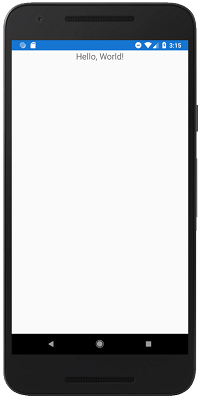
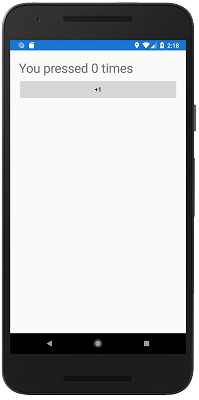
Update content to match upcoming blog post

diff --git a/mobile-blazor-bindings/contribute/roadmap.md b/mobile-blazor-bindings/contribute/roadmap.md
@@ -10,8 +10,10 @@ As an experimental project, there are several active areas of development and we
 
 ## Areas for possible improvement
 
-* Implement more wrappers for Xamarin.Forms elements. The most common Xamarin.Forms elements are available for use with Experimental Mobile Blazor Bindings, but there are more still to come. Follow [this issue](https://github.com/xamarin/Emblazon/issues/5) on GitHub to track the availability of components, or file a new issue with any feature suggestions.
+* [Add support for Hot Reload](https://github.com/xamarin/MobileBlazorBindings/issues/23)
+* Support for inline text and markup in issues [MobileBlazorBindings#26](https://github.com/xamarin/MobileBlazorBindings/issues/26) and [MobileBlazorBindings#27](https://github.com/xamarin/MobileBlazorBindings/issues/27)
+* Implement more wrappers for Xamarin.Forms elements. The most common Xamarin.Forms elements are available for use with Experimental Mobile Blazor Bindings, but there are more still to come. Follow [this issue](https://github.com/xamarin/MobileBlazorBindings/issues/5) on GitHub to track the availability of components, or file a new issue with any feature suggestions.
 * The current elements are mostly direct wrappers of Xamarin.Forms components. An open question is whether there should be components that are more abstract and/or match other patterns such as web-based patterns.
 * Better support for the `Shell` component.
 * Support URL-based navigation, both with the `Shell` component, and using Blazor's `@page` directive URL support.
-* Improved handling of modal dialogs and pop-ups. There is support for basic modal dialogs using the `ModalContainer` component, as seen in the [Todo app sample](https://github.com/xamarin/Emblazon/blob/master/samples/MobileBlazorBindingsTodoSample/MobileBlazorBindingsTodo/TodoEntry.razor#L12-L14).
+* Improved handling of modal dialogs and pop-ups. There is support for basic modal dialogs using the `ModalContainer` component, as seen in the [Todo app sample](https://github.com/xamarin/MobileBlazorBindings/blob/master/samples/MobileBlazorBindingsTodoSample/MobileBlazorBindingsTodo/TodoEntry.razor#L12-L14).

diff --git a/mobile-blazor-bindings/index.md b/mobile-blazor-bindings/index.md
@@ -4,22 +4,28 @@ title: 'Experimental Mobile Blazor Bindings'
 
 # Experimental Mobile Blazor Bindings
 
-Experimental Mobile Blazor Bindings is a new framework for building mobile apps using C# and .NET. It brings together familiar web programming patterns for use with native mobile controls to build native mobile apps for Android and iOS. Experimental Mobile Blazor Bindings uses Razor syntax to define UI components and behaviors of an application. The underlying UI components are based on Xamarin.Forms elements.
+Experimental Mobile Blazor Bindings enable developers to build native mobile apps using C# and .NET for iOS and Android using familiar web programming patterns. Experimental Mobile Blazor Bindings uses Razor syntax to define UI components and behaviors of an application. The underlying UI components are based on Xamarin.Forms native UI components. 
 
 Blazor runs on [.NET Standard 2.0](https://docs.microsoft.com/dotnet/standard/net-standard) so you can share your .NET code with most other .NET apps.
 
 This is a sample `Hello, World!` component:
 
 ```xml
-<ContentPage>
-    <StackLayout>
+<StackLayout>
+    <Label FontSize="30"
+           Text="@("You pressed " + count + " times")" />
+    <Button Text="+1"
+            OnClick="@HandleClick" />
+</StackLayout>
 
-        <Label Text="Hello, World!"
-               FontSize="20"
-               HorizontalTextAlignment="TextAlignment.Center" />
+@code {
+    int count;
 
-    </StackLayout>
-</ContentPage>
+    void HandleClick()
+    {
+        count++;
+    }
+}
 ```
 
 And here it is running in the Android Emulator:
